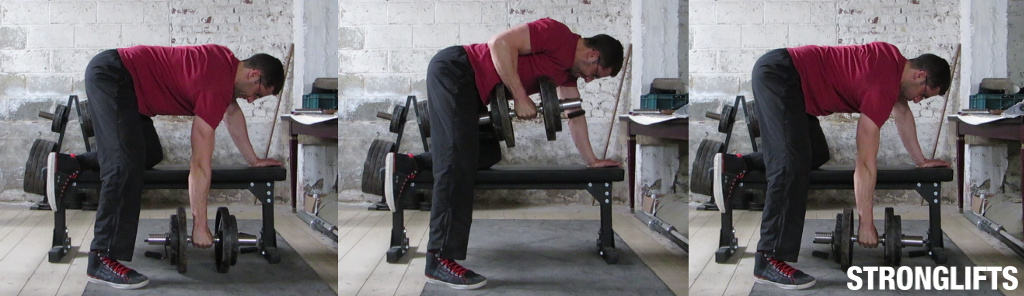
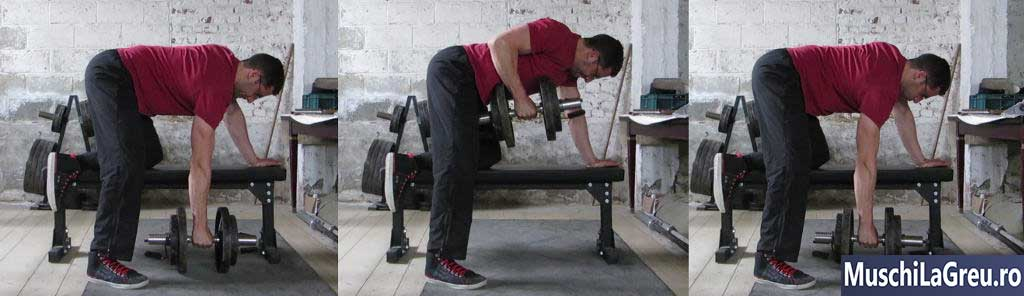
added table of content and changed water mark

Changed region(s): [[0.8125, 0.8514, 1.0, 1.0]]

diff --git a/src/elements/TableOfContent.jsx b/src/elements/TableOfContent.jsx
@@ -1,0 +1,209 @@
+import React, { useState } from 'react';
+import styled from '@emotion/styled';
+import PropTypes from 'prop-types';
+
+export const TableOfContent = ({ input }) => {
+  const Wrapper = styled.div`
+    background: white;
+    padding: 25px;
+    max-width: 50rem;
+    transition: opacity 0.5s ease 0s;
+    @media (max-width: ${props => props.theme.breakpoints.s}) {
+      max-width: 95%;
+    }
+  `;
+
+  const FixedWrapper = styled.div`
+    display: none;
+    @media (max-width: ${props => props.theme.breakpoints.s}) {
+      display: block;
+      opacity: ${props => (props.show ? '1' : '0')};
+      transition: opacity 0.5s ease 0s;
+      top: 0px;
+      left: 0px;
+      bottom: 0px;
+      right: 0px;
+      position: fixed;
+      background-color: rgb(255, 255, 255);
+      z-index: 2;
+      height: 100vh;
+      overflow-y: auto;
+      pointer-events: ${props => (props.show ? 'auto' : 'none')};
+    }
+  `;
+
+  const Button = styled.div`
+    background-color: rgb(32, 35, 42);
+    bottom: 44px;
+    color: rgb(97, 218, 251);
+    display: ${props => (props.show ? 'none' : 'block')};
+    cursor: pointer;
+    position: fixed;
+    right: 20px;
+    z-index: 3;
+    box-shadow: rgba(0, 0, 0, 0.3) 0px 0px 20px;
+    border-radius: 50%;
+    border-width: 1px;
+    border-style: solid;
+    border-color: rgba(255, 255, 255, 0.1);
+    border-image: initial;
+  `;
+  const InnerButton = styled.div`
+    padding-left: 20px;
+    padding-right: 20px;
+    margin-left: auto;
+    margin-right: auto;
+  `;
+  const IconsWrapper = styled.div`
+    height: 60px;
+    display: flex;
+    align-items: flex-start;
+    overflow: hidden;
+  `;
+  const Icons = styled.div`
+    width: 20px;
+    height: 20px;
+    display: flex;
+    color: rgb(97, 218, 251);
+    align-self: center;
+    flex-direction: column;
+  `;
+
+  const ArrowUp = styled.svg`
+    transform: translate(2px, -4px) rotate(180deg);
+  `;
+  const ArrowDown = styled.svg`
+    transform: translate(2px, 4px);
+  `;
+
+  const [simpleButtonState, toggleSimpleButtonState] = useState(false);
+  const handleSimpleButtonClick = () => toggleSimpleButtonState(!simpleButtonState);
+
+  return (
+    <>
+      <Wrapper>
+        <FixedWrapper show={simpleButtonState}>
+          <Wrapper dangerouslySetInnerHTML={{ __html: input }} />
+        </FixedWrapper>
+      </Wrapper>
+      <Button onClick={handleSimpleButtonClick}>
+        <InnerButton>
+          <IconsWrapper>
+            <Icons>
+              <ArrowUp
+                viewBox="0 0 926.23699 573.74994"
+                version="1.1"
+                x="0px"
+                y="0px"
+                width="15"
+                height="15"
+                class="css-cf8c4v"
+              >
+                <g transform="translate(904.92214,-879.1482)">
+                  <path
+                    d="
+                    m -673.67664,1221.6502 -231.2455,-231.24803 55.6165,
+                    -55.627 c 30.5891,-30.59485 56.1806,-55.627 56.8701,-55.627 0.6894,
+                    0 79.8637,78.60862 175.9427,174.68583 l 174.6892,174.6858 174.6892,
+                    -174.6858 c 96.079,-96.07721 175.253196,-174.68583 175.942696,
+                    -174.68583 0.6895,0 26.281,25.03215 56.8701,
+                    55.627 l 55.6165,55.627 -231.245496,231.24803 c -127.185,127.1864
+                    -231.5279,231.248 -231.873,231.248 -0.3451,0 -104.688,
+                    -104.0616 -231.873,-231.248 z
+                    "
+                    fill="currentColor"
+                  ></path>
+                </g>
+              </ArrowUp>
+              <ArrowDown
+                viewBox="0 0 926.23699 573.74994"
+                version="1.1"
+                x="0px"
+                y="0px"
+                width="15"
+                height="15"
+                class="css-12wnq5i"
+              >
+                <g transform="translate(904.92214,-879.1482)">
+                  <path
+                    d="
+                    m -673.67664,1221.6502 -231.2455,-231.24803 55.6165,
+                    -55.627 c 30.5891,-30.59485 56.1806,-55.627 56.8701,-55.627 0.6894,
+                    0 79.8637,78.60862 175.9427,174.68583 l 174.6892,174.6858 174.6892,
+                    -174.6858 c 96.079,-96.07721 175.253196,-174.68583 175.942696,
+                    -174.68583 0.6895,0 26.281,25.03215 56.8701,
+                    55.627 l 55.6165,55.627 -231.245496,231.24803 c -127.185,127.1864
+                    -231.5279,231.248 -231.873,231.248 -0.3451,0 -104.688,
+                    -104.0616 -231.873,-231.248 z
+                    "
+                    fill="currentColor"
+                  ></path>
+                </g>
+              </ArrowDown>
+            </Icons>
+          </IconsWrapper>
+        </InnerButton>
+      </Button>
+    </>
+  );
+};
+export default TableOfContent;
+
+//  <div role="button" tabindex="0" class="css-yx40kw">
+//    <div class="css-tctv7l">
+//      <div class="css-7ef8f8">
+//        <div class="css-1dgtft4">
+//          <svg
+//            viewBox="0 0 926.23699 573.74994"
+//            version="1.1"
+//            x="0px"
+//            y="0px"
+//            width="15"
+//            height="15"
+//            class="css-sg9l1i"
+//          >
+//            <g transform="translate(904.92214,-879.1482)">
+//              <path
+//                d="
+//           m -673.67664,1221.6502 -231.2455,-231.24803 55.6165,
+//           -55.627 c 30.5891,-30.59485 56.1806,-55.627 56.8701,-55.627 0.6894,
+//           0 79.8637,78.60862 175.9427,174.68583 l 174.6892,174.6858 174.6892,
+//           -174.6858 c 96.079,-96.07721 175.253196,-174.68583 175.942696,
+//           -174.68583 0.6895,0 26.281,25.03215 56.8701,
+//           55.627 l 55.6165,55.627 -231.245496,231.24803 c -127.185,127.1864
+//           -231.5279,231.248 -231.873,231.248 -0.3451,0 -104.688,
+//           -104.0616 -231.873,-231.248 z
+//         "
+//                fill="currentColor"
+//              ></path>
+//            </g>
+//          </svg>
+//          <svg
+//            viewBox="0 0 926.23699 573.74994"
+//            version="1.1"
+//            x="0px"
+//            y="0px"
+//            width="15"
+//            height="15"
+//            class="css-o1zbu3"
+//          >
+//            <g transform="translate(904.92214,-879.1482)">
+//              <path
+//                d="
+//           m -673.67664,1221.6502 -231.2455,-231.24803 55.6165,
+//           -55.627 c 30.5891,-30.59485 56.1806,-55.627 56.8701,-55.627 0.6894,
+//           0 79.8637,78.60862 175.9427,174.68583 l 174.6892,174.6858 174.6892,
+//           -174.6858 c 96.079,-96.07721 175.253196,-174.68583 175.942696,
+//           -174.68583 0.6895,0 26.281,25.03215 56.8701,
+//           55.627 l 55.6165,55.627 -231.245496,231.24803 c -127.185,127.1864
+//           -231.5279,231.248 -231.873,231.248 -0.3451,0 -104.688,
+//           -104.0616 -231.873,-231.248 z
+//         "
+//                fill="currentColor"
+//              ></path>
+//            </g>
+//          </svg>
+//        </div>
+//      </div>
+//    </div>
+//  </div>;

diff --git a/src/pages/index.jsx b/src/pages/index.jsx
@@ -39,7 +39,7 @@ const Index = ({ data }) => {
   return (
     <Layout>
       <Helmet title={'Antrenamente'} />
-      <Header title="Antrenamente">Fii mai puternic decat scuzele tale</Header>
+      <Header title="MuschiLaGreu.ro">Fii mai puternic decat scuzele tale</Header>
       <FadeIn>
         <PostWrapper>
           {edges.map(({ node }) => {
@@ -125,4 +125,4 @@ export const query = graphql`
 `;
 
 const html =
-  '<h2>Cum mi-am marit squat-ul de la 90kg la 140kg in 7 luni</h2><p><strong>Iata care este adevarul despre cresterea in forta in 2020:</strong></p><p>Majoritatea barbatilor isi pierd timpul facand MUULT prea multe antrenamente, exercitii si seturi.</p><p>Ei cred ca„ daca fac acelasi antrenament pe care il face tipul cel mare din sala de sport, vor fi si la fel de mari si puternici”</p><p>Dar asta functioneaza rar...</p><p>Baietii mari de obicei se antreneaza de ani buni (si deseori folosesc droguri). Acestia pot suporta o sarcini de munca mai mare decat majoritatea celor ce sunt naturali.</p><p>Copierea antrenamentelor lor este ca si cum ai incerca sa alergi un maraton atunci cand nu poti nici sa parcurgi 6 km. Vei face febra musculara, probabil te vei acidenta si, in cele din urma, vei fi descurajat si <em>vei renunta</em>.</p><p>Daca sunteti determinati si vreti sa fiti puternici, trebuie sa stapaniti mai intai elementele de baza. Aveti nevoie de un plan, cu o progresie logica, care sa se concentreze pe exercitiile de baza.</p><p>In caz contrar, veti pierde timpul la antrenamente si exercitii aleatorii, in speranta ca veti deveni puternici, dar va alegeti doar cu febra musculara(sau mai rau, acidentari).</p><p>Asa ca va voi arata un program pe care mii de oameni l-au folosit pentru a-si creste rapid Squat, Bench si Deadlift.</p><p>De fapt, eu am folosit acest program („ [Antrenamente 5x5](/program/full-body/5x5) ”) pentru a-mi creste Squat de la 90kg la 140kg, Bench la 120kg si Deadlift la 180kg… in numai 8 luni.</p><p>Am reusit sa ajung la Squat de 140kg dupa numai 7 luni</p><p>Cea mai buna parte? Sunt doar 3 exercitii, 3x / saptamana, 45min pe antrenament.</p><p>Acest program este o munca grea. Dar este simplu, eficient si usor de urmat. Este, de asemenea, cel mai rapid mod pe care l-am descoperit pentru a mi creste rapid puterea.</p><p>Daca doriti sa incercati antrenamentul  [Antrenamente 5x5](/program/full-body/5x5)  gratuit, da ti click pe butonul de mai jos pentru a avea acces instantaneu la programul meu de antrenament.</p>';
+  '<h2>Cum mi-am marit squat-ul de la 90kg la 140kg in 7 luni</h2><p><strong>Iata care este adevarul despre cresterea in forta in 2020:</strong></p><p>Majoritatea barbatilor isi pierd timpul facand MUULT prea multe antrenamente, exercitii si seturi.</p><p>Ei cred ca„ daca fac acelasi antrenament pe care il face tipul cel mare din sala de sport, vor fi si la fel de mari si puternici”</p><p>Dar asta functioneaza rar...</p><p>Baietii mari de obicei se antreneaza de ani buni (si deseori folosesc droguri). Acestia pot suporta o sarcini de munca mai mare decat majoritatea celor ce sunt naturali.</p><p>Copierea antrenamentelor lor este ca si cum ai incerca sa alergi un maraton atunci cand nu poti nici sa parcurgi 6 km. Vei face febra musculara, probabil te vei acidenta si, in cele din urma, vei fi descurajat si <em>vei renunta</em>.</p><p>Daca sunteti determinati si vreti sa fiti puternici, trebuie sa stapaniti mai intai elementele de baza. Aveti nevoie de un plan, cu o progresie logica, care sa se concentreze pe exercitiile de baza.</p><p>In caz contrar, veti pierde timpul la antrenamente si exercitii aleatorii, in speranta ca veti deveni puternici, dar va alegeti doar cu febra musculara(sau mai rau, acidentari).</p><p>Asa ca va voi arata un program pe care mii de oameni l-au folosit pentru a-si creste rapid Squat, Bench si Deadlift.</p><p>De fapt, eu am folosit acest program ("Antrenamente 5x5”) pentru a-mi creste Squat de la 90kg la 140kg, Bench la 120kg si Deadlift la 180kg… in numai 8 luni.</p><p>Am reusit sa ajung la Squat de 140kg dupa numai 7 luni</p><p>Cea mai buna parte? Sunt doar 3 exercitii, 3x / saptamana, 45min pe antrenament.</p><p>Acest program este o munca grea. Dar este simplu, eficient si usor de urmat. Este, de asemenea, cel mai rapid mod pe care l-am descoperit pentru a mi creste rapid puterea.</p><p>Daca doriti sa incercati Antrenamente 5x5  gratuit, da ti click pe butonul de mai jos pentru a avea acces instantaneu la programul meu de antrenament.</p>';

diff --git a/src/templates/post.jsx b/src/templates/post.jsx
@@ -7,6 +7,7 @@ import { TagsBlock, Header, SEO } from 'components';
 import '../styles/prism';
 import FadeIn from '../elements/FadeIn';
 import Suggestions from '../elements/Suggestions';
+import TableOfContent from '../elements/TableOfContent';
 
 const Post = ({ data, pageContext }) => {
   console.log('Post -> pageContext', pageContext);
@@ -17,6 +18,7 @@ const Post = ({ data, pageContext }) => {
   const image = frontmatter.cover.childImageSharp.fluid;
   let regex = '<details(.|\n)*?</details>';
   const tableOfContent = html.match(regex);
+  console.log('Post -> tableOfContent', tableOfContent);
   return (
     <Layout>
       <SEO
@@ -27,7 +29,8 @@ const Post = ({ data, pageContext }) => {
         article
       />
       <Header title={title} date={date} cover={image} />
-      <Content input={tableOfContent} />
+
+      <TableOfContent input={tableOfContent} />
       <Content input={html} />
       <TagsBlock list={tags || []} />
       <Container>

diff --git a/content/posts/barbel-row/index.md b/content/posts/barbel-row/index.md
@@ -35,7 +35,7 @@ Este foarte usor sa gresiti exercitiul Barbell Row. Puteti ridica greutati mai m
 
 Acesta este ghidul complet pentru realizarea exercitiului Barbell Row.
 
-<details style="border:1px solid black;"><summary style="text-align:center">Cuprins</summary>
+<details style="border:1px solid black;" open><summary style="text-align:center">Cuprins</summary>
 
 <div class="contents" style="width: 100%; display: table;">
    <ul class="contents-ul">
